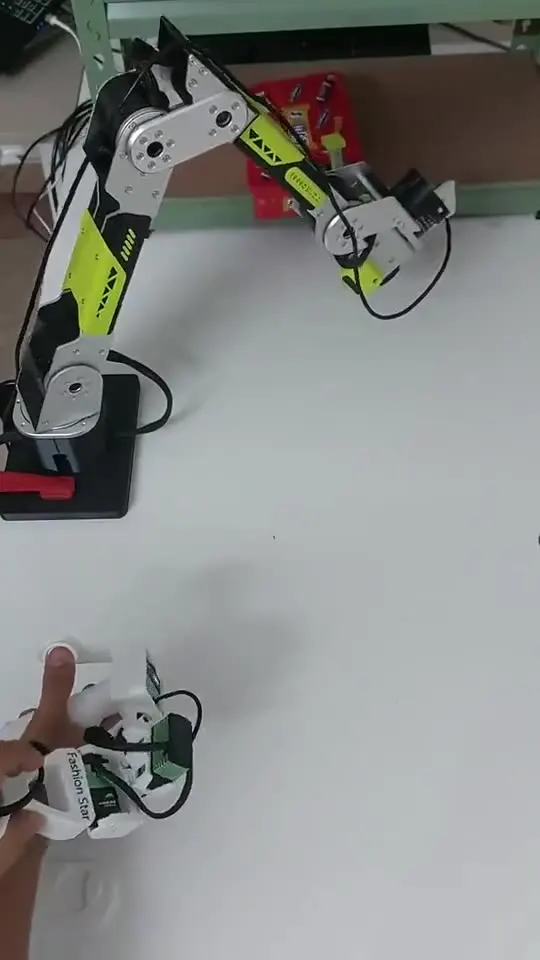
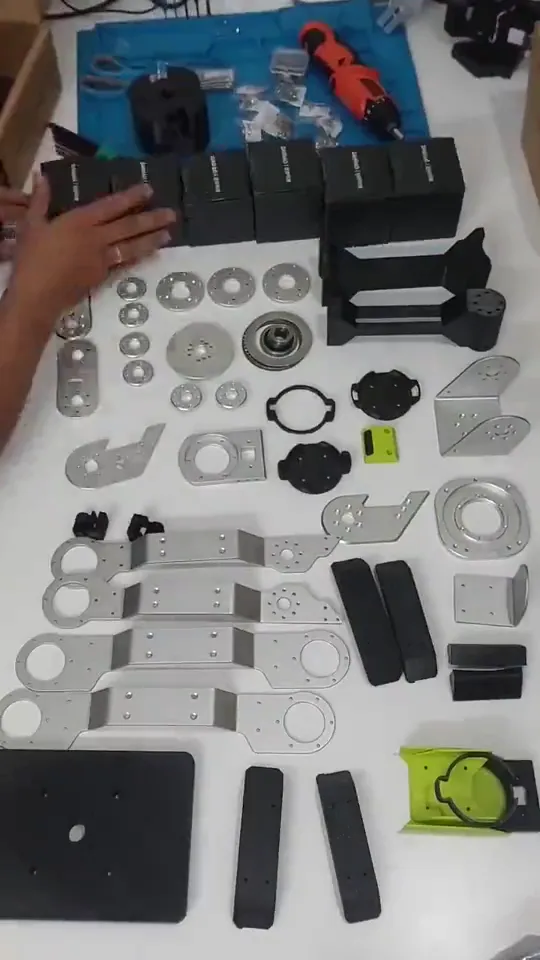
Use an early 'parts laid out' frame as the reBot video poster

diff --git a/index.html b/index.html
@@ -160,7 +160,7 @@
 
       <article class="card post post--video">
         <div class="post-media post-media--tall">
-          <video controls playsinline preload="none" poster="assets/posts/rebot-arm-poster.webp" width="540" height="960">
+          <video controls playsinline preload="none" poster="assets/posts/rebot-arm-poster.webp?v=2" width="540" height="960">
             <source src="assets/posts/rebot-arm.mp4" type="video/mp4" />
           </video>
         </div>
